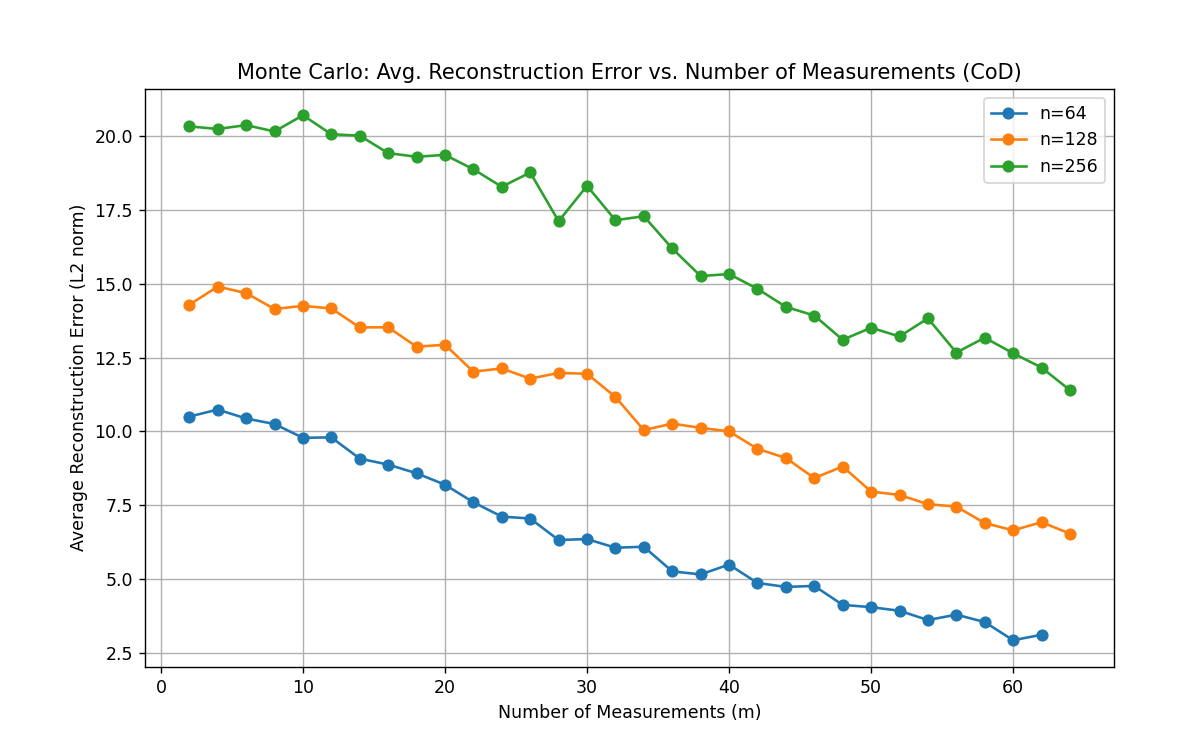
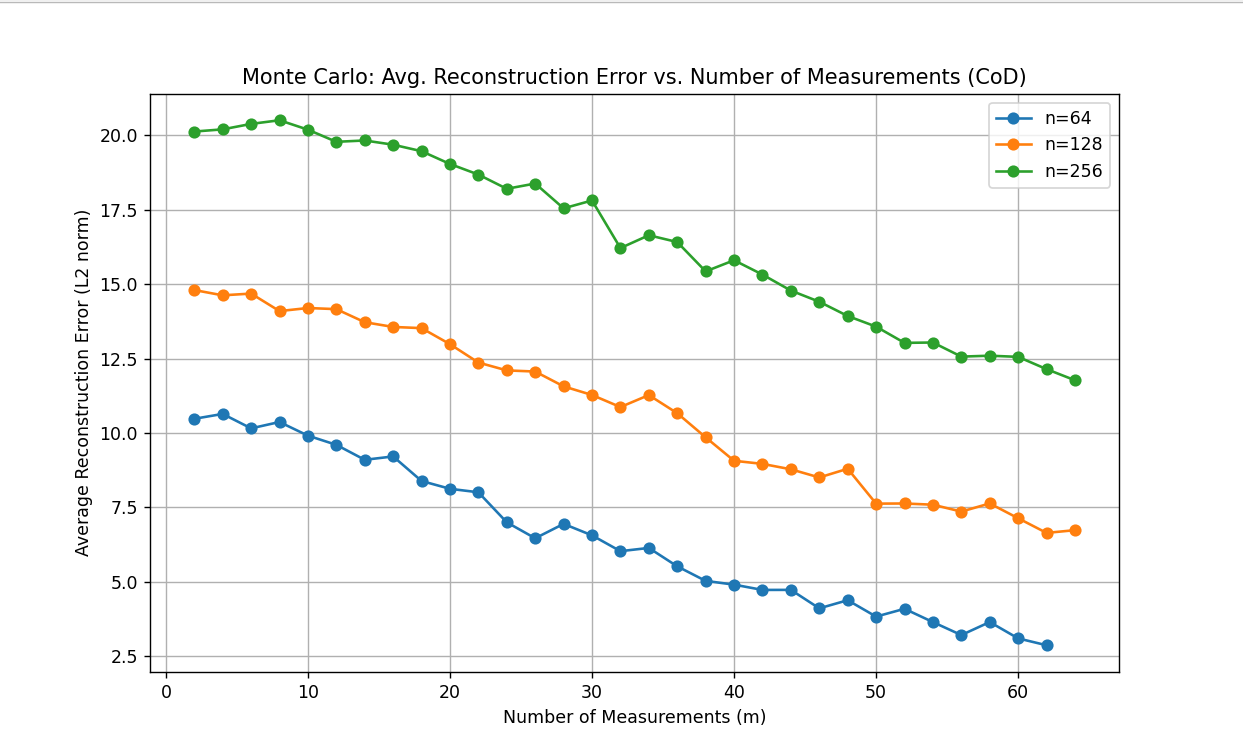
updating report and small changes to cod_montecarlo.py

diff --git a/CoD-Python/cod_montecarlo.py b/CoD-Python/cod_montecarlo.py
@@ -29,7 +29,6 @@ def cod(y, theta, Psi, alpha=0.05, num_iter=50):
 
 def monte_carlo_trial_cod(n, m, sampling_rate, alpha=0.05, num_iter=50):
     x_time = generate_sine_signal(n, 5, sampling_rate)
-    x_sparse = dct(x_time, norm='ortho').reshape(-1, 1)
     Phi, Psi, theta = measurement_cod(m, n)
     y = Phi @ x_time.reshape(-1, 1)
     x_time_rec = cod(y, theta, Psi, alpha=alpha, num_iter=num_iter)
